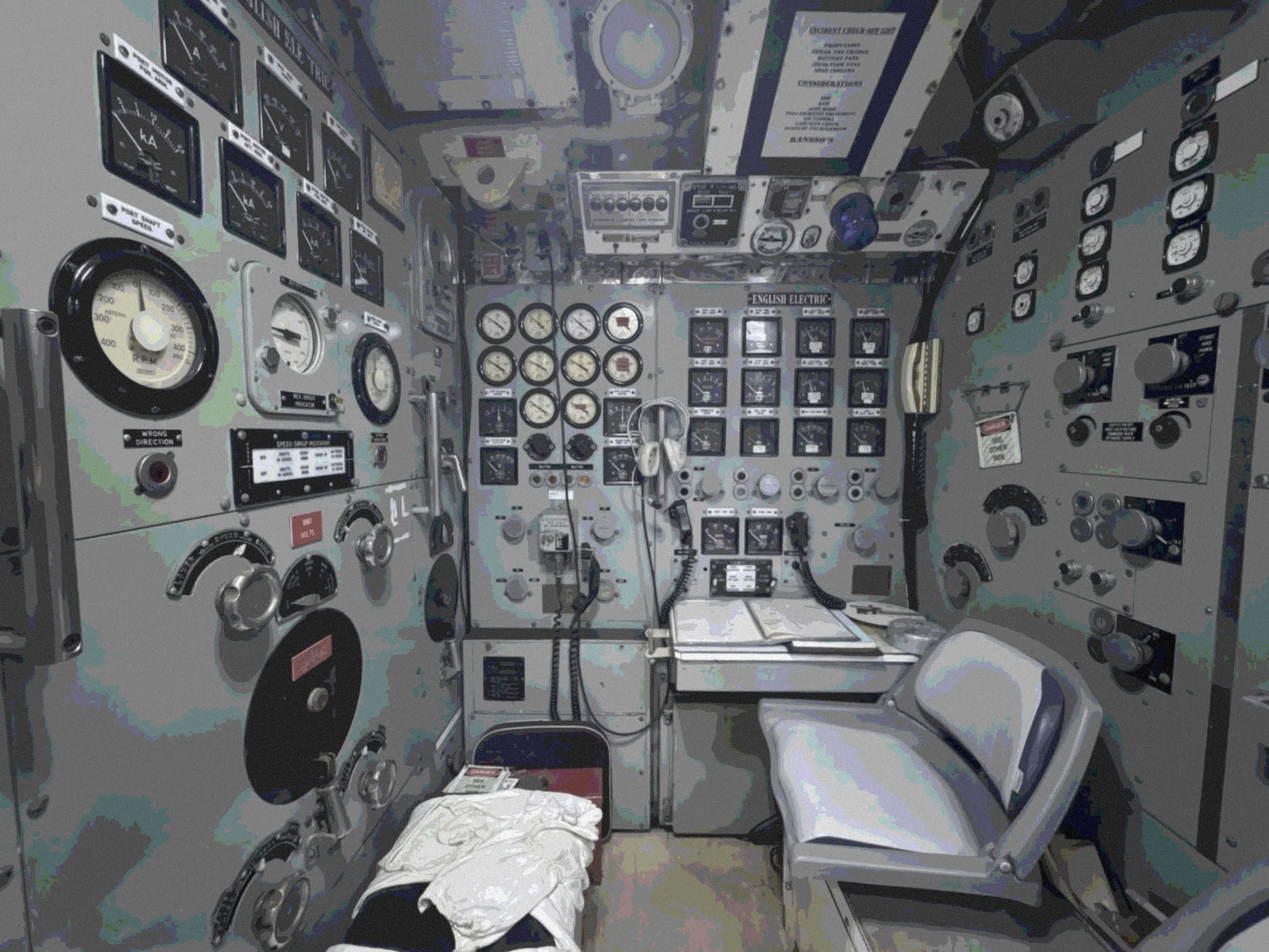
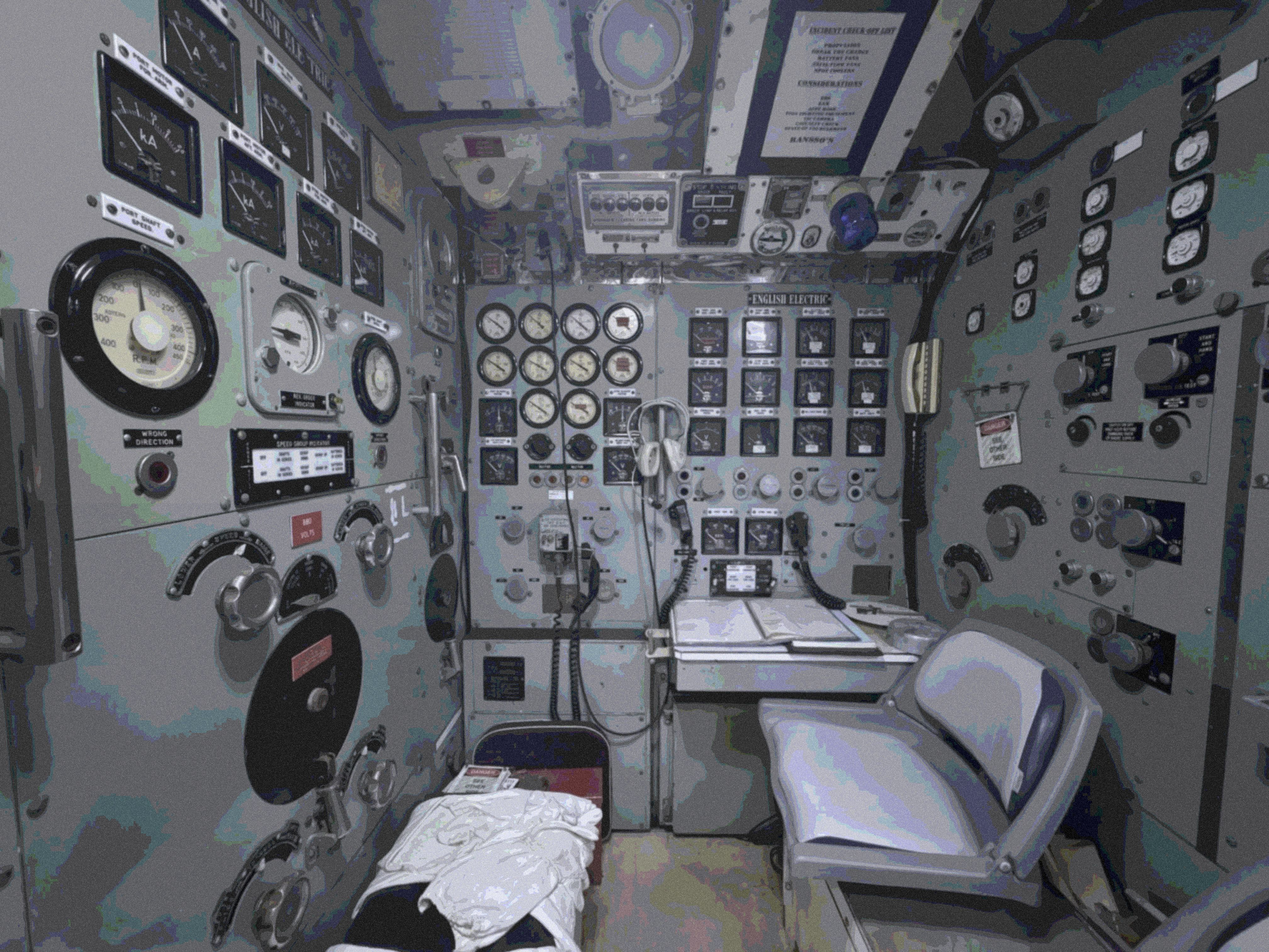
updated tm-31.jpeg, added background image preload in preload array

diff --git a/game/GameProvider.tsx b/game/GameProvider.tsx
@@ -11,7 +11,7 @@ import {
 } from "react";
 import { gameReducer, initialState } from "./gameReducer";
 import { loadGame, saveGame } from "./save";
-import { collectSprites, preloadImages } from "./assets";
+import { collectSprites, collectBackgrounds, preloadImages } from "./assets";
 import { releaseAudio } from "@/lib/sound";
 import type { GameState, Action } from "@/lib/types";
 
@@ -43,11 +43,12 @@ export function GameProvider({ children }: { children: ReactNode }) {
     setHydrated(true);
   }, []);
 
-  // Warm the browser's image cache once on mount so sprite swaps don't flash.
-  // The set is small, so we preload everything; switch to per-scene lookahead
-  // if the sprite count ever grows large.
+  // Warm the browser's image cache once on mount so sprites AND backgrounds don't
+  // flash on first paint. This runs while the title screen is up, so assets are
+  // cached before Stage renders. The set is small, so we preload everything;
+  // switch to per-scene lookahead if the asset count ever grows large.
   useEffect(() => {
-    preloadImages(collectSprites());
+    preloadImages([...collectSprites(), ...collectBackgrounds()]);
     // Release the audio keep-alive when the game tears down, so the device isn't
     // held open after we're gone.
     return () => releaseAudio();

diff --git a/game/assets.ts b/game/assets.ts
@@ -27,9 +27,20 @@ export function collectSprites(): string[] {
   return [...out];
 }
 
-// Pull each URL into the browser cache and decode it, so a later <img> swap is
-// paint-ready instantly. Client-only; failures are ignored (a missing sprite
-// shouldn't break the game).
+// Every background URL referenced by the scene graph. These are CSS
+// background-image url()s, not <img>, but preloading still warms the same HTTP
+// cache the url() reads from — so the background is ready when the scene paints.
+export function collectBackgrounds(): string[] {
+  const out = new Set<string>();
+  for (const scene of Object.values(scenes)) {
+    if (scene.background) out.add(scene.background);
+  }
+  return [...out];
+}
+
+// Pull each URL into the browser cache and decode it, so a later <img> swap or
+// CSS background paint is instant. Client-only; failures are ignored (a missing
+// asset shouldn't break the game).
 export function preloadImages(urls: string[]): void {
   if (typeof window === "undefined") return;
   for (const src of urls) {
